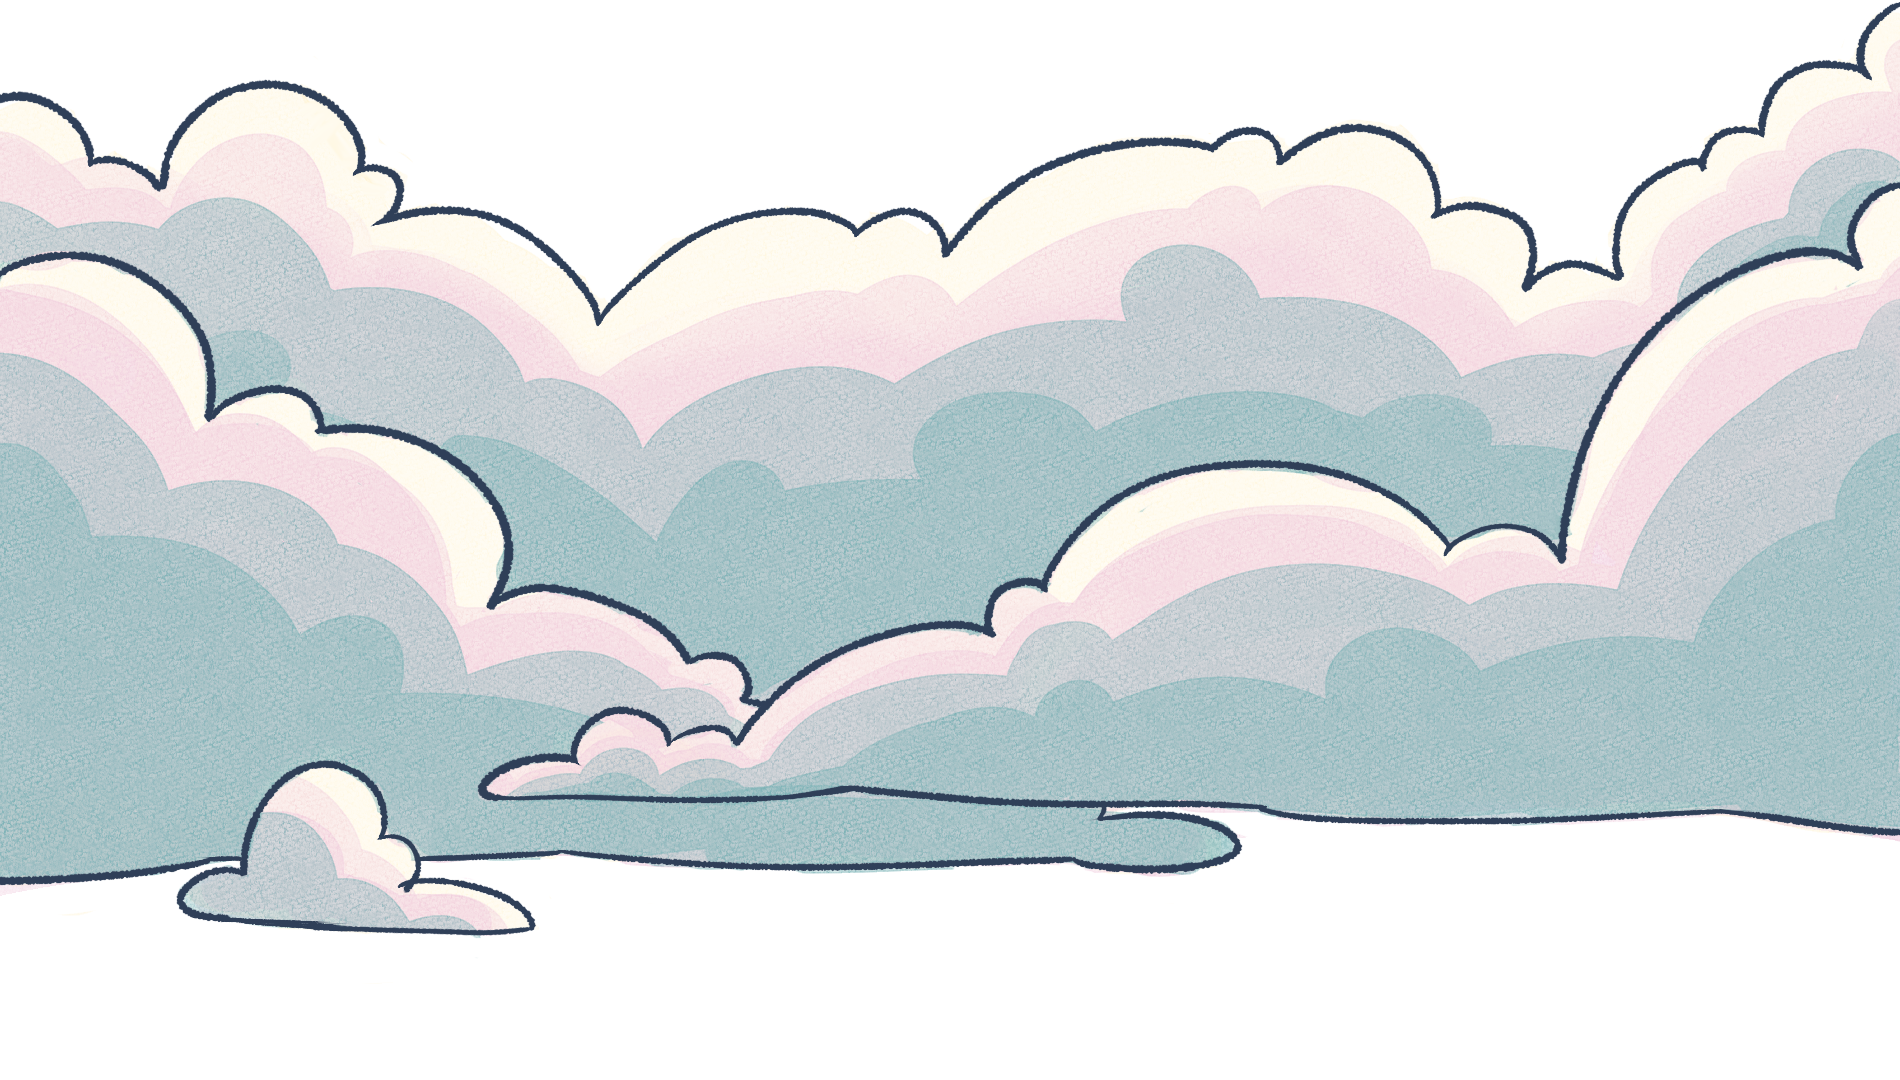
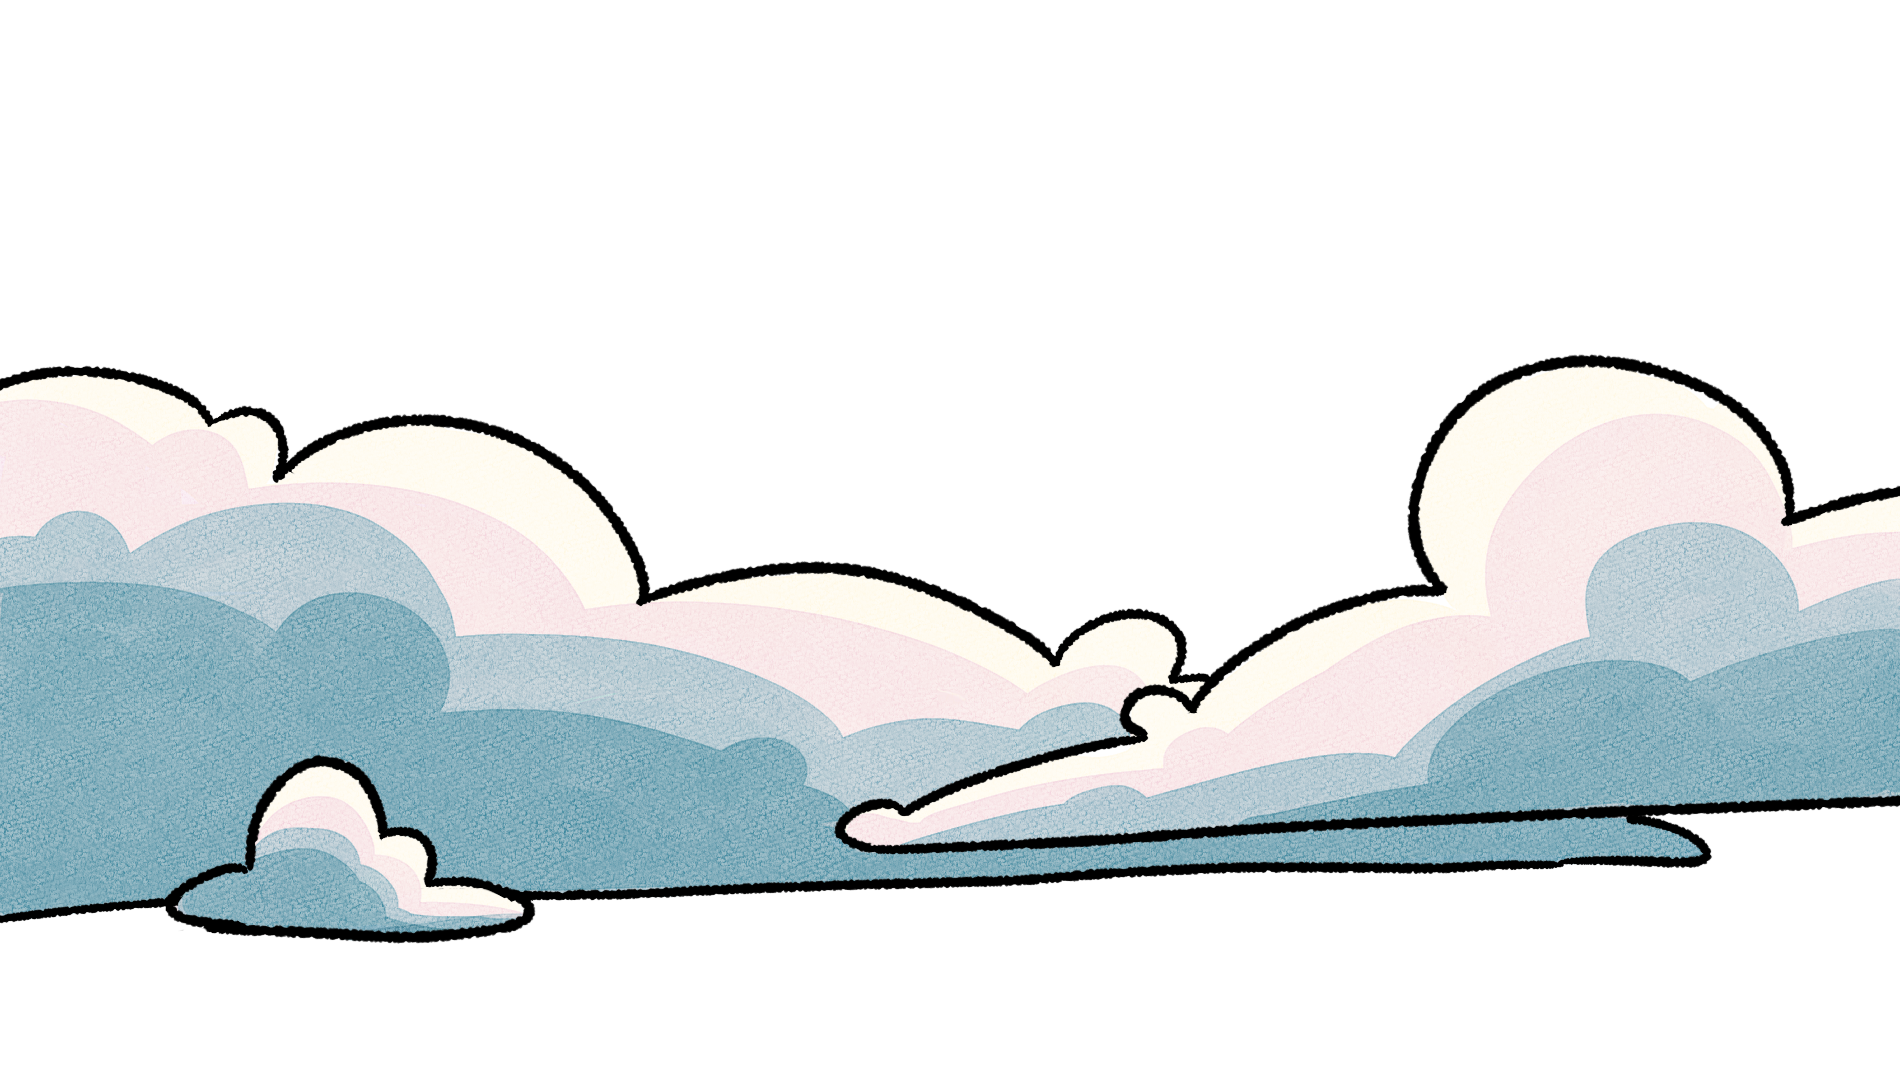
Add cloud transition

diff --git a/index.html b/index.html
@@ -42,7 +42,8 @@
     </div>
   </header>
 
-
+<div class="section-wrapper" style="position: relative;">
+ 
   <section id="HomePage">
     <div class="contentLigne" style="flex-wrap: wrap;">
       <p data-key="StartSwitch" class="SameTexte">Je suis</p>
@@ -51,10 +52,14 @@
     </div>
   </section>
   <canvas id="bubbleCanvas"></canvas>
+  
+ <img src="Assets/background/BACKGROUND_CLOUD.png" 
+       alt="Nuage" 
+       style="position: absolute; top: 12%; left: 0; width: 100%; z-index: 2;">
 
   <!-- Section About -->
   <section id="about" class="about-section">
-    <img src="Assets/ion/MATHYS_MOLES.png" alt="Mathys Moles" id="Portait" style="width: 40%;">
+    <img src="Assets/ion/MATHYS_MOLES.png" alt="Mathys Moles" id="Portait" style="width: 50%;">
     <div id="AboutTexte" class="about-inner" role="region" aria-labelledby="about-title">
       <div class="about-text">
         <p class="kicker fade-up" data-key="AboutA">
@@ -109,7 +114,7 @@
       </div>
     </div>
   </section>
-
+</div>
   <!-- ProjectScreen et autres sections -->
   <section id="ProjectScreen">
     <div id="Container">

diff --git a/Scripts/Script.js b/Scripts/Script.js
@@ -75,7 +75,7 @@ function WriteTextGradually(pElement, pWord, pInterval = 200) {
 //=========================
 async function loadTranslations() {
     lang = currentLang ? "fr" : "en";
-    const response = await fetch("../Json/Traduction/" + lang + ".json");
+    const response = await fetch("Scripts/Traduction/" + lang + ".json");
     translationsData = await response.json();
 }
 

diff --git a/style/about.css b/style/about.css
@@ -9,6 +9,7 @@
 
 .about-section {
     min-height: 100vh;
+    max-height: 110vh;
     display: flex;
     align-items: center;
     justify-content: center;

diff --git a/style/reset.css b/style/reset.css
@@ -671,8 +671,7 @@ padding: 3px;
 }
 
 #Portait {
-  transform: translate(5%, 20%);
-
+  transform: translate(-15%, -0%);
 
 }
 
